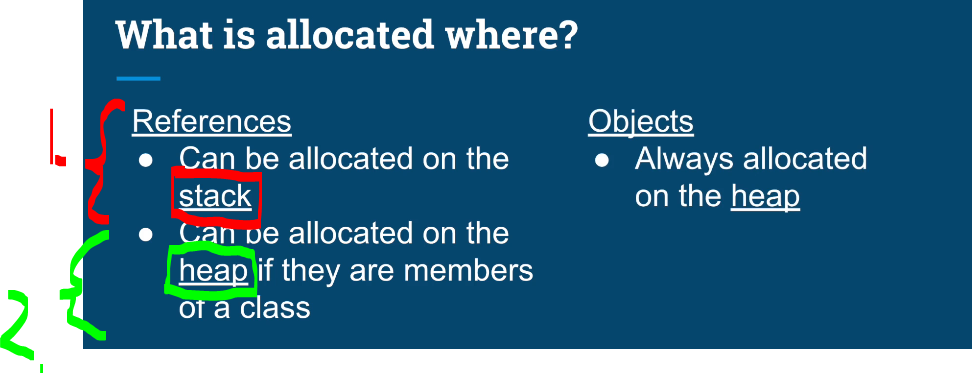
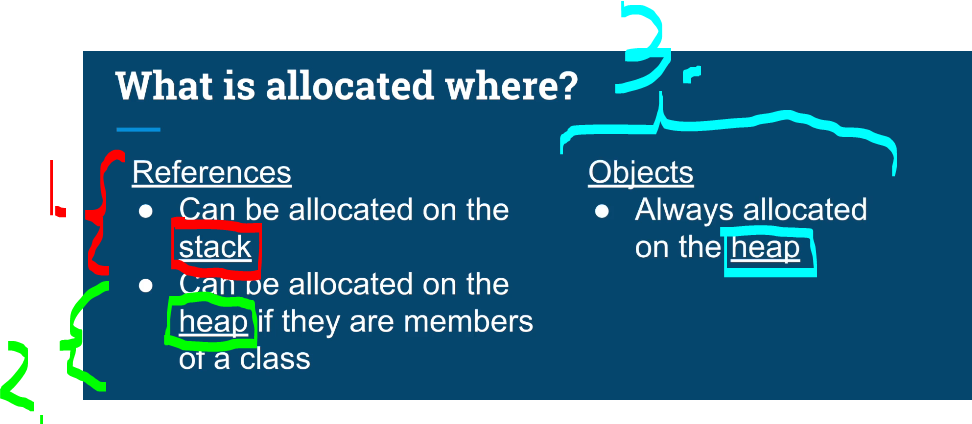
proceeded

diff --git a/README.md b/README.md
@@ -83,6 +83,12 @@ Linkedin puts this shit front, when clicking from private mode x(. Need to put t
 
 </details>
 
+#### The Quizzes and Labs.
+
+* Section 05 Quiz:
+    * [Quiz 06: Stack & Heap Memory Regions](https://github.com/developersCradle/data-structures-algorithms-and-java-multithreading-concurrency-performance-optimization/tree/main/Java%20Multithreading%2C%20Concurrency%20and%20Performance%20Optimization/Section%2005#quiz-5-stack--heap-memory-regions).
+
+
 <p align="center">
     <img src="Multithreading, Parallel & Asynchronous Coding in Modern Java caption.png" alt="course intros" style="width:990px;height:110px;"/>
 </p>
@@ -490,16 +496,14 @@ Linkedin puts this shit front, when clicking from private mode x(. Need to put t
     <img id="Performance Optimization" src="How_To_Get_Good_At_l33t_Code_By_Nich_White_Learning_Path.jpg" style=" width: 480px;">
 </p>
 
-<details>
-
-<summary id="Must know" open="true"> <b> Must know fundementals! </b> </summary>
-
-<br>
 
 > [!IMPORTANT]  
 > Comfortable requirements, one can open text editor and write data structure like **Linked List**.
 
-<br>
+
+<details>
+
+<summary id="Must know" open="true"> <b> Must know fundementals! </b> </summary>
 
 <p align="center">
     <img src="Solving_Leet_Code_Prerequisites.PNG" alt="First we need know" style="width:990px;height:110px;"/>

diff --git a/Java Multithreading, Concurrency and Performance Optimization/Section 05/README.md b/Java Multithreading, Concurrency and Performance Optimization/Section 05/README.md
@@ -133,8 +133,71 @@ Data Sharing Between Threads.
 
 2. If, they are member of the **Object**, they are allocated in the **heap**, with their **parent Object**
 
+3. **Objects** are always allocated on the **heap**!
 
+<div align="center">
+    <img src="Two_Sides.jpg" width="500"/>
+</div>
+
+<div align="center">
+    <img src="Memory_Regions_Summary.PNG" width="500"/>
+</div>
+
+2. **Stack** includes following variables:
+    - Local Primitive types: Example `int x`
+
+
+- int add here the example codes
 
 # Quiz 5: Stack & Heap Memory Regions.
+
+
+
+
+<details>
+
+<summary id="Thread progress
+" open="true"> <b>Question 01.</b> </summary>
+
+````Java
+
+public class Example {
+    private Map<Integer, String> idToNameMap;
+
+    private static long numberOfInstances = 0;
+
+    public Example() {
+        this.idToNameMap = new HashMap<>();
+        numberOfInstances++;
+    }
+
+    public List<String> getAllNames() {
+        int count = idToNameMap.size();
+        List<String> allNames = new ArrayList<>();
+
+        allNames.addAll(idToNameMap.values());
+
+        return allNames;
+    }
+}
+
+````
+
+
+- My answer:
+
+
+<div align="center">
+    <img src="Quiz 01/q1.PNG" width="400"/>
+</div>
+
+
+1. 
+
+</details>
+
+
+
+
 
 # Resource Sharing & Introduction to Critical Sections.
